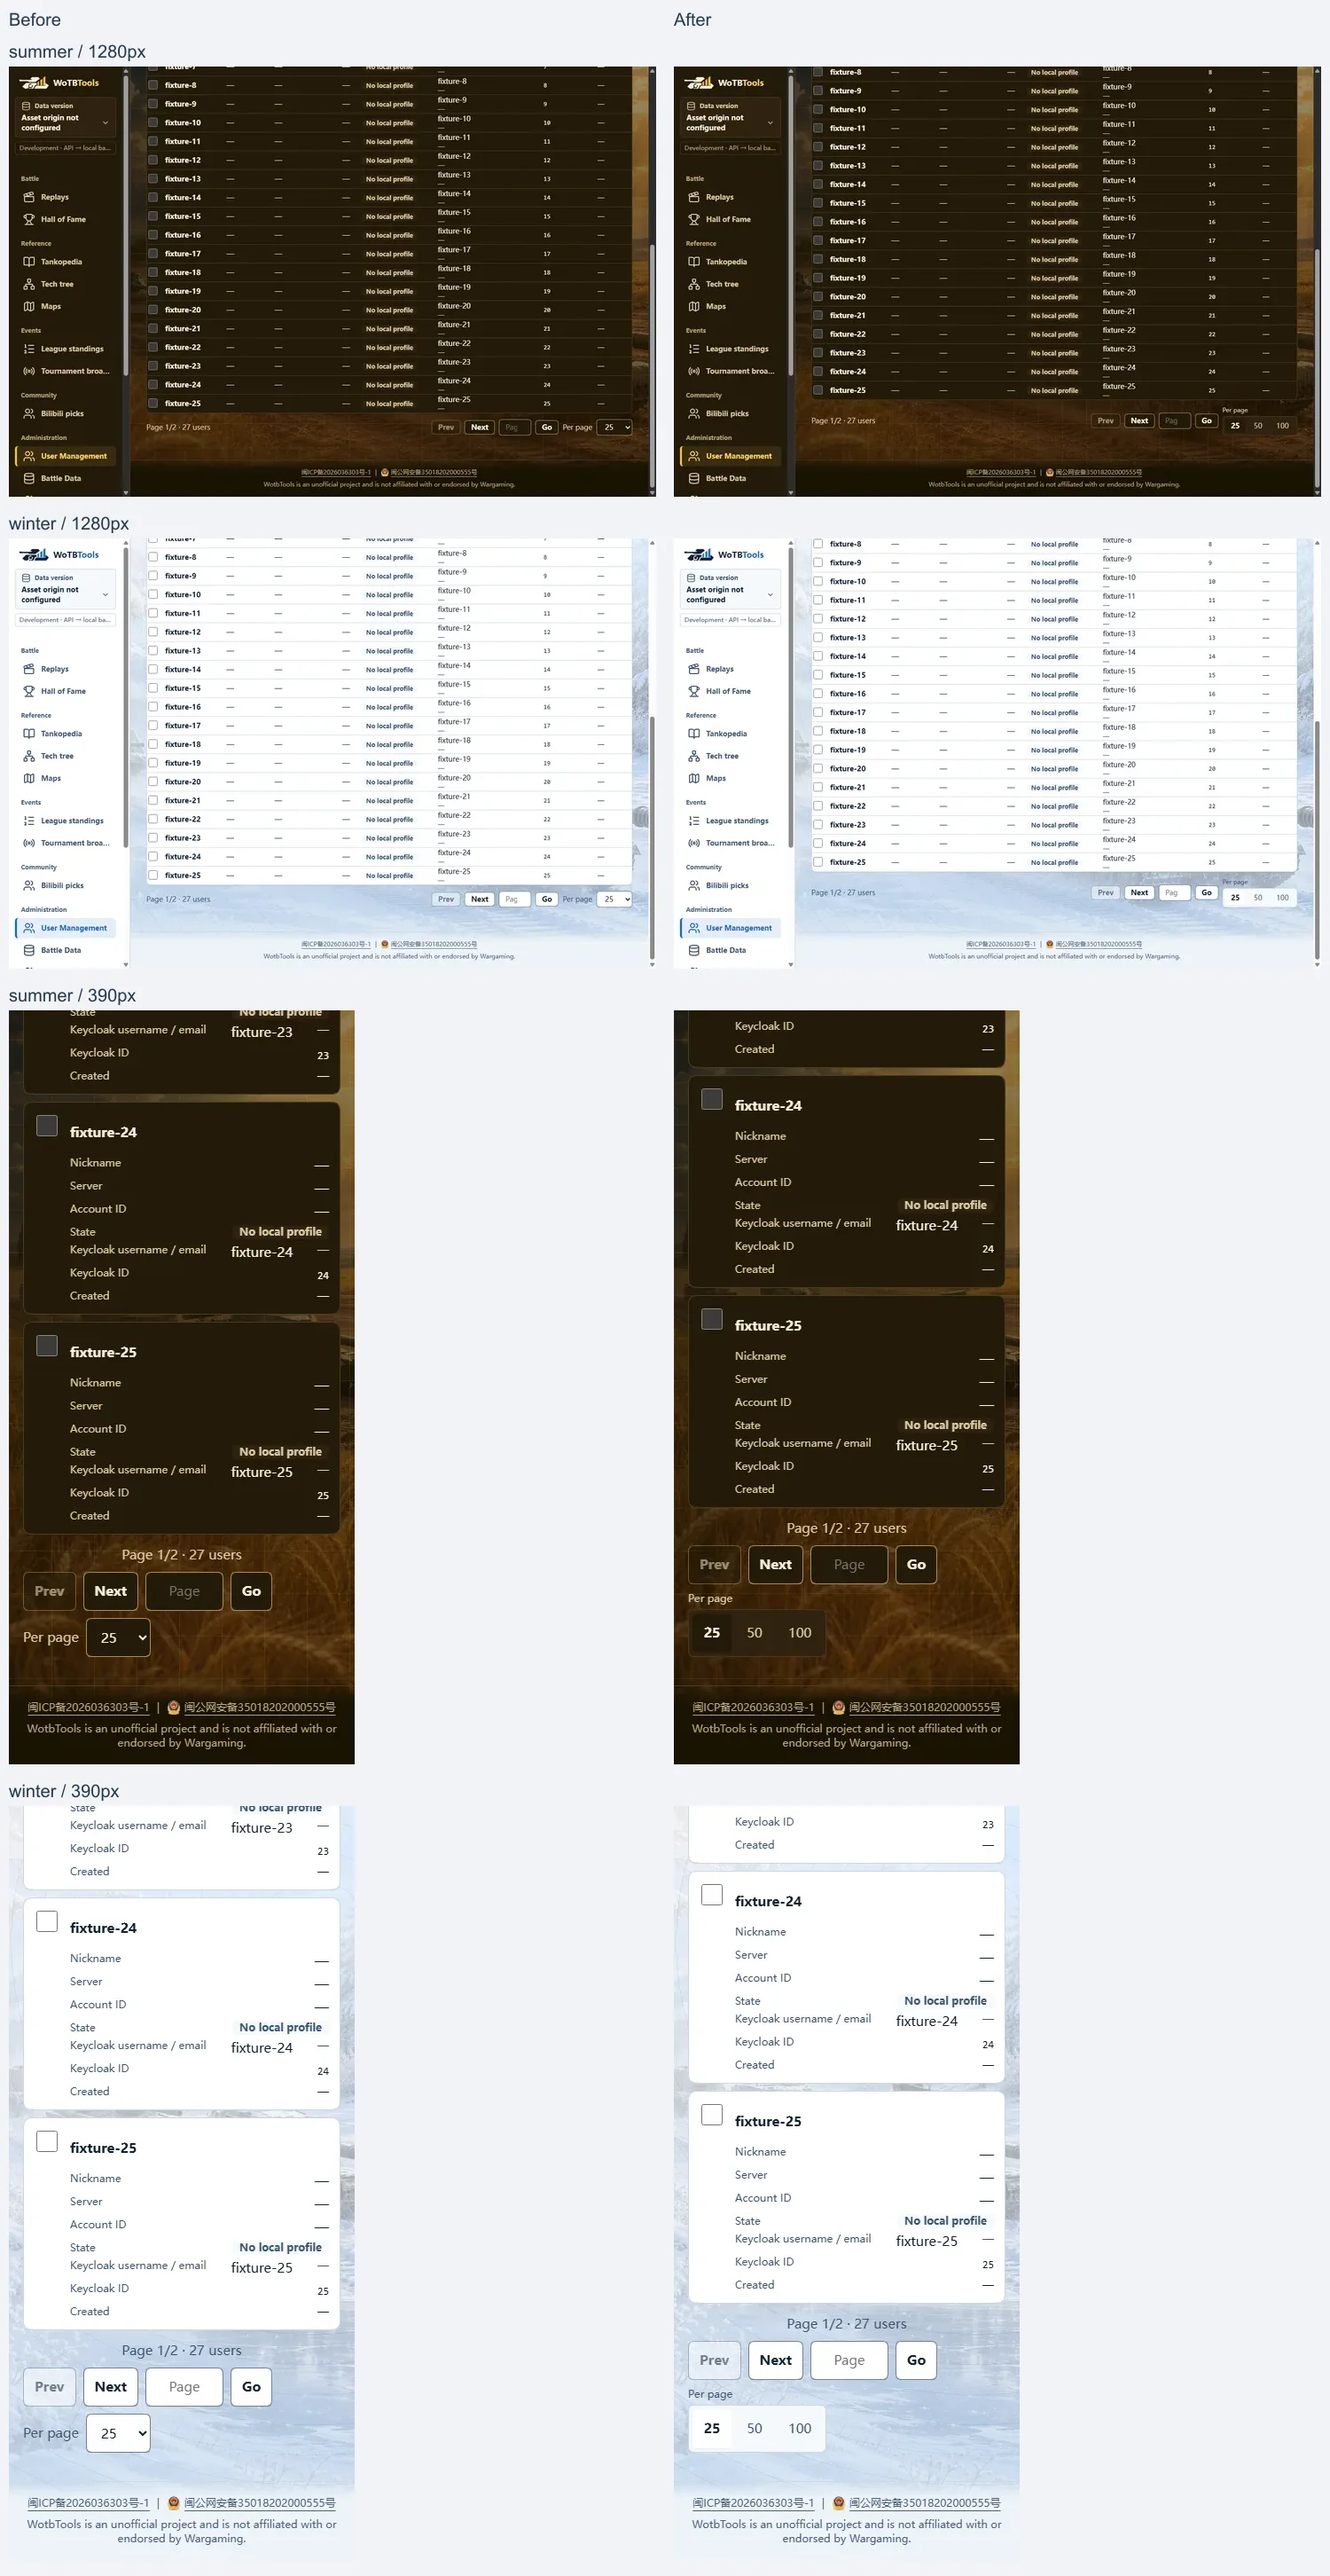
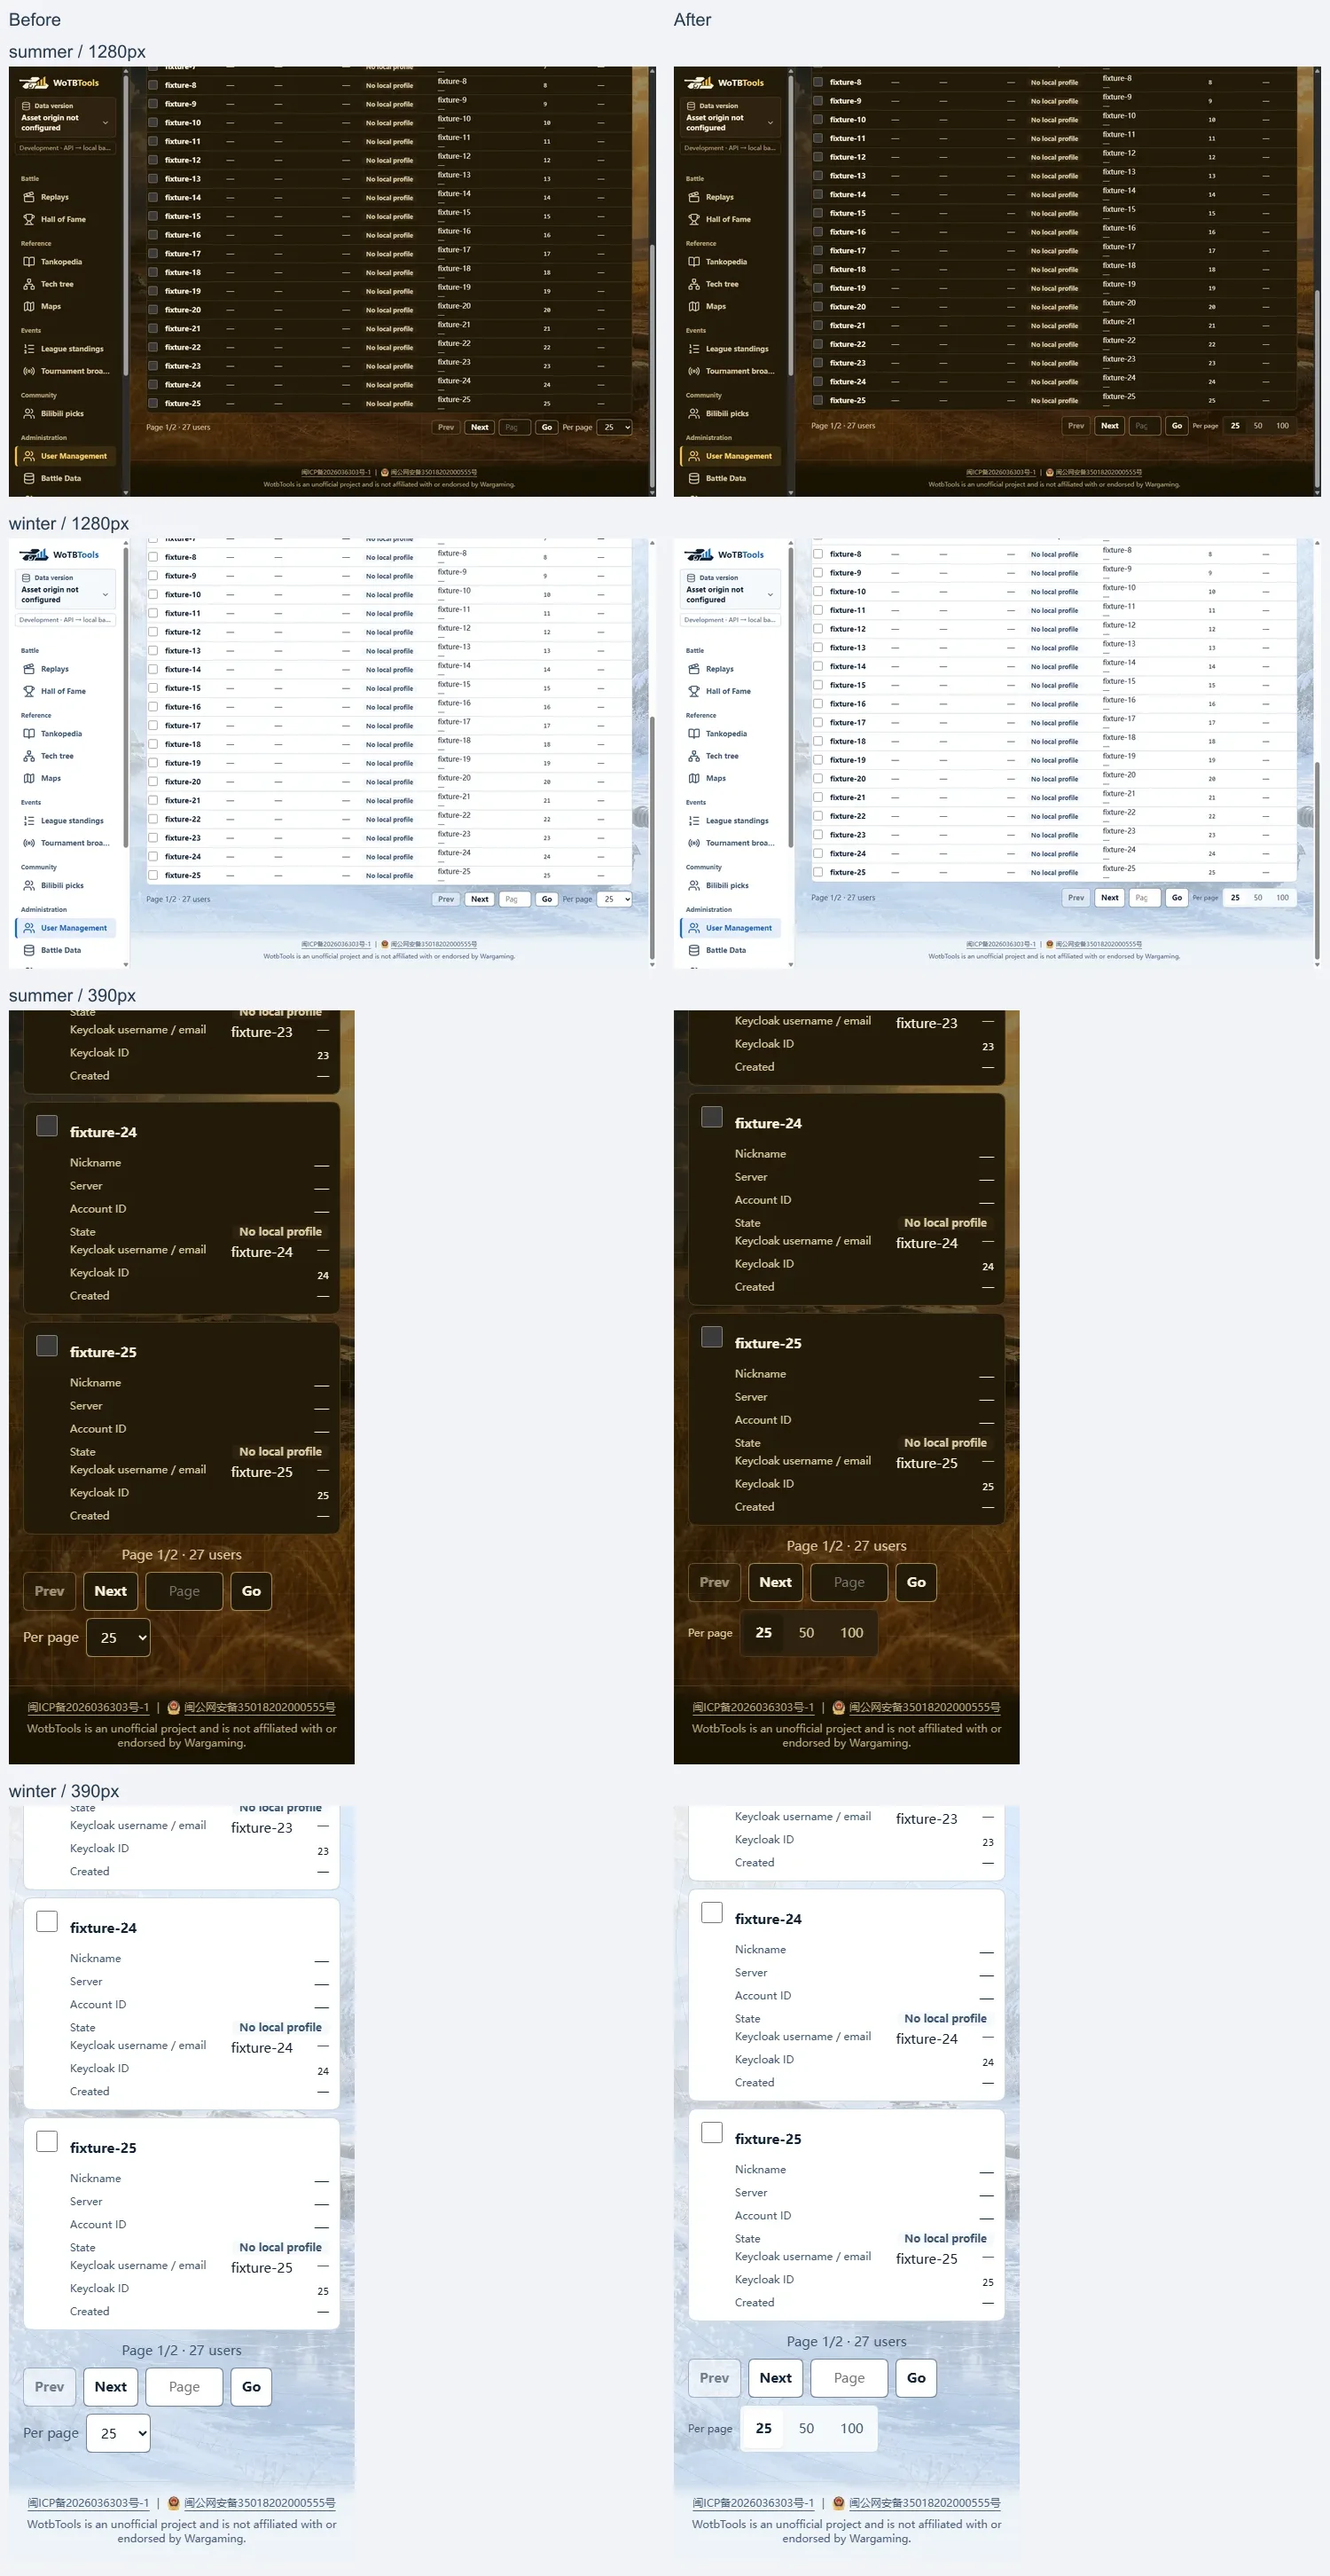
对齐用户管理分页控件并放大桌面页头分区

diff --git a/frontend/src/components/AdminUsersPage.vue b/frontend/src/components/AdminUsersPage.vue
@@ -147,7 +147,7 @@ onBeforeUnmount(() => {
 </script>
 <template>
   <div class="admin-page admin-users">
-    <ShowcaseHero compact section="admin" :kicker="$t('admin.kicker')" :title="$t('admin.title')">
+    <ShowcaseHero class="admin-users-hero" compact section="admin" :kicker="$t('admin.kicker')" :title="$t('admin.title')">
       <template #actions>
         <SegmentedControl
           :model-value="segment"
@@ -284,7 +284,7 @@ onBeforeUnmount(() => {
           />
           <AppButton size="sm" class="admin-page-go" :disabled="!adminAvailability.available" @click="goJumpPage">{{ $t('admin.jumpGo') }}</AppButton>
         </span>
-        <div class="admin-list-field">
+        <div class="admin-page-size-field">
           <span>{{ $t('admin.size') }}</span>
           <SegmentedControl :model-value="String(size)" :options="pageSizeOptions" :aria-label="$t('admin.size')"
             data-testid="admin-page-size" @update:model-value="onSizeChange" />
@@ -413,7 +413,10 @@ onBeforeUnmount(() => {
 .admin-idp-field { min-width: var(--form-field-min); }
 .admin-filter-hint { margin: 0; }
 .admin-kc-email { display: block; }
-.admin-page-jump { display: inline-flex; align-items: center; gap: var(--space-2); }
+.admin-pagination .admin-list-pagination-controls,
+.admin-page-jump { align-items: stretch; }
+.admin-page-jump, .admin-page-size-field { display: inline-flex; gap: var(--space-2); }
+.admin-page-size-field { align-items: center; color: var(--color-text-secondary); font: var(--type-caption); }
 
 .admin-user-identity { display: flex; align-items: center; gap: var(--space-3); margin-bottom: var(--space-5); }
 .admin-user-avatar {

diff --git a/frontend/src/components/ShowcaseHero.vue b/frontend/src/components/ShowcaseHero.vue
@@ -166,4 +166,20 @@ const artStyle = computed(() => (props.section ? sectionHeroStyle(props.section)
     --hero-text-surface: var(--color-hero-photo-scrim);
   }
 }
+@media (width >= 768px) {
+  .admin-users-hero .showcase-hero.is-compact[data-section='admin'] {
+    display: grid;
+    align-items: center;
+    min-block-size: clamp(132px, min(36vw, 54svh), 480px);
+    background: linear-gradient(100deg, var(--color-surface-1) 10%, var(--color-surface-2) 30%, var(--color-hero-photo-scrim) 72%), var(--color-surface-1);
+  }
+  .admin-users-hero .showcase-hero.is-compact .showcase-hero-content {
+    --title-fade: clamp(var(--space-12), 12vw, 12rem);
+    min-block-size: 0;
+    align-self: stretch;
+    padding-inline: var(--gutter) var(--title-fade);
+    background: linear-gradient(to right, var(--color-surface-1) calc(100% - var(--title-fade)), transparent);
+  }
+  .admin-users-hero .showcase-hero.is-compact .showcase-hero-title { font: var(--type-display-hero); }
+}
 </style>

diff --git a/docs/frontend/ui-system.md b/docs/frontend/ui-system.md
@@ -82,7 +82,7 @@
 
 ## 管理后台列表模板
 
-管理分区的紧凑页头按标题文字宽度铺设遮罩，覆盖长标签。中大屏按横幅高度等比显示右侧完整主视觉，手机采用原分区焦点构图。用户管理、AI 复盘反馈、站点反馈、战斗数据共用同一页面骨架（推荐视频配置只统一页头 kicker，表单仍是原有双栏）：
+管理分区的紧凑页头按标题文字宽度铺设遮罩，覆盖长标签。用户管理页在中大屏按可用视口放大整个页头区域，左侧为标题，右侧等比展示整张配图。手机使用紧凑构图。分页的跳页和每页条数控件同排时上下沿对齐，空间不足时按组换行。用户管理、AI 复盘反馈、站点反馈、战斗数据共用同一页面骨架（推荐视频配置只统一页头 kicker，表单仍是原有双栏）：
 `ShowcaseHero` compact（分区 kicker + 标题，操作在下方工具条）→ `AdminFilterBar`（搜索与筛选）→ `AdminBulkBar`（勾选后出现，现有批量能力）→ `admin-list-table`（表格）→ 分页。
 共享样式在 `components/admin-list.css`，类名统一 `admin-list-` 前缀，只用语义 token。
 
